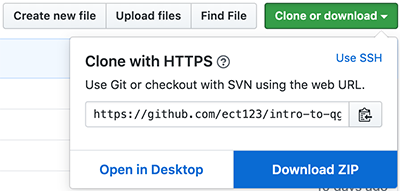
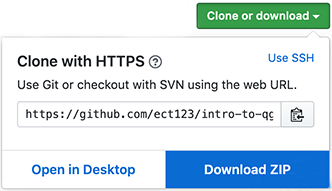
edited photo for downloads

diff --git a/README.md b/README.md
@@ -1,6 +1,6 @@
 # Intro to GIS with QGIS 3.4
 
-<p align="center">
+<p align="left">
   <a href="#introduction">Introduction</a>&nbsp;|
   <a href="#gis-in-context">GIS in Context</a>&nbsp;|
   <a href="#qgis">QGIS</a>&nbsp;|
